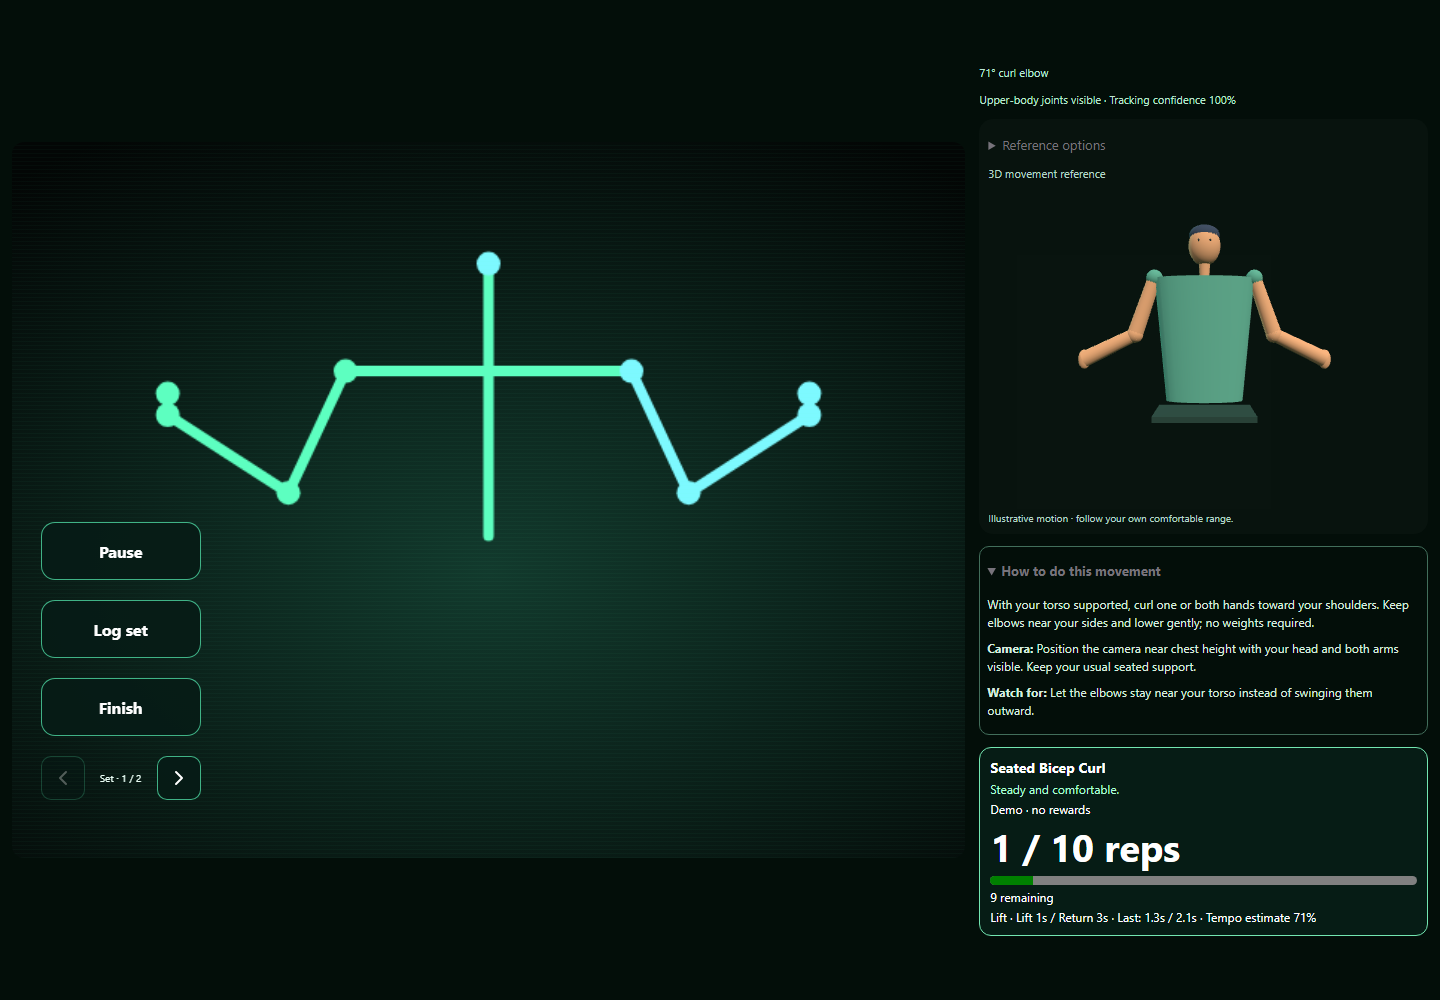
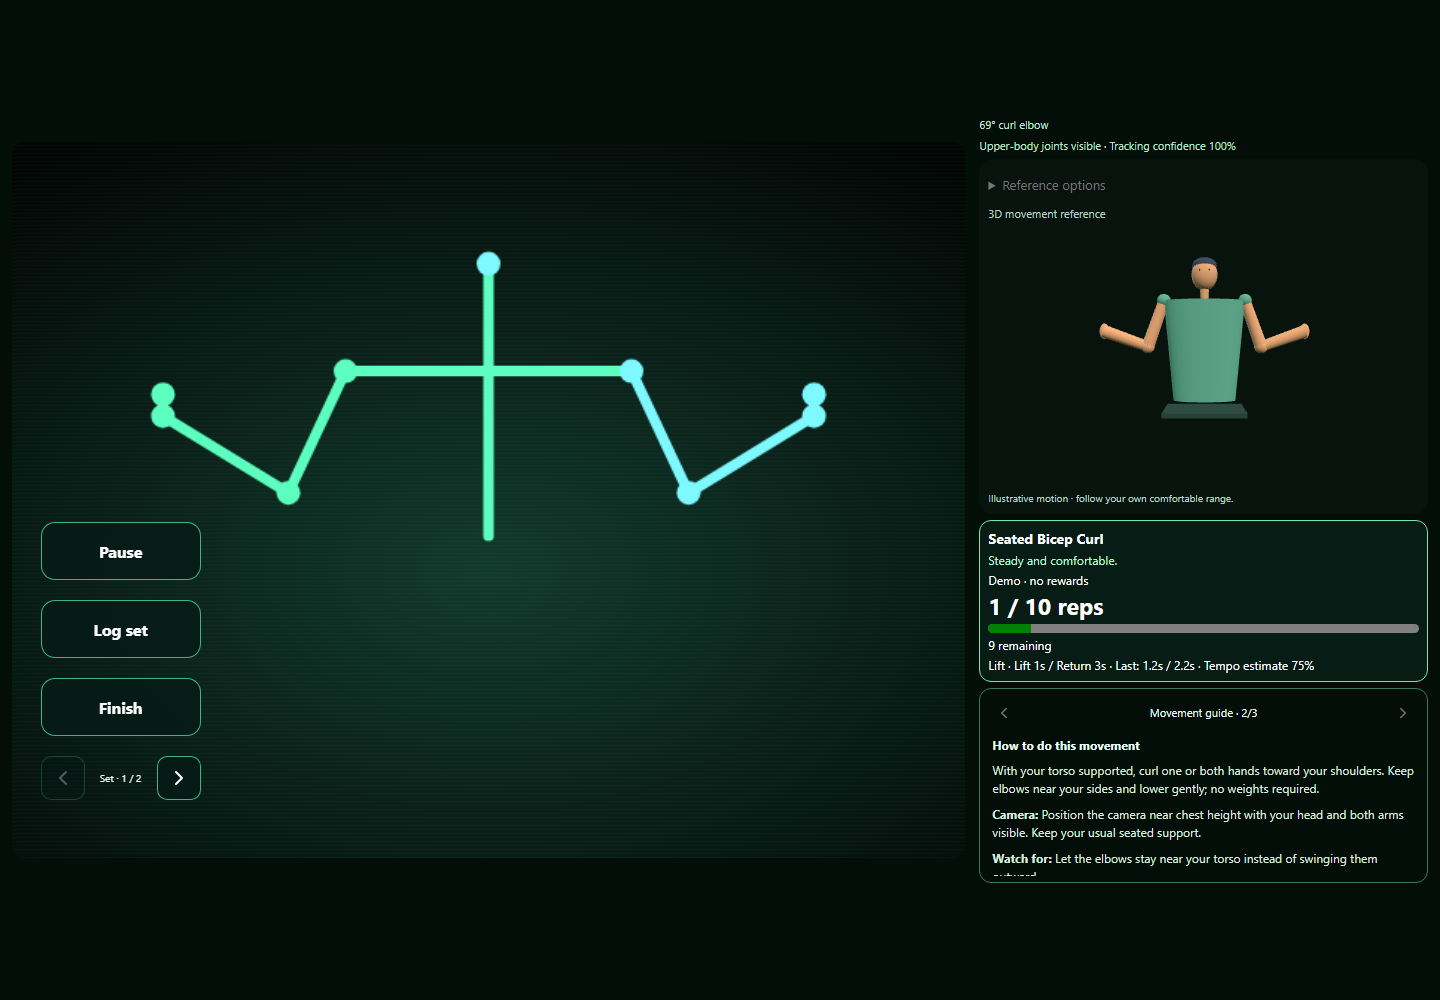
test(coach): verify compact details and Auto selection

diff --git a/e2e/form-coach.spec.ts b/e2e/form-coach.spec.ts
@@ -351,7 +351,7 @@ test('Auto is selectable and never identifies the prerecorded demo as a real wor
   await page.goto('/#workouts/coach')
   await page.getByLabel('Selected workout').selectOption('auto')
   await expect(page.locator('.fc-auto-help')).toContainText('first movement is not counted')
-  await page.getByRole('button', { name: 'Demo', exact: true }).click()
+  await page.getByRole('button', { name: 'Watch the demo athlete', exact: true }).click()
   await expect(page.locator('.fc-side-status')).toContainText('Auto needs a live camera', { timeout: 20000 })
   await expect(page.locator('.fc-workout-hud')).toContainText('Auto · identifying movement')
   await expect(page.locator('.fc-workout-hud b')).toContainText('0 /')
@@ -361,3 +361,23 @@ test('Auto is selectable and never identifies the prerecorded demo as a real wor
   await page.getByRole('button', { name: 'Previous workout detail', exact: true }).click()
   await expect(page.locator('.fc-movement-guide')).toHaveCount(0)
 })
+
+
+for (const viewport of [{width:1440,height:900},{width:390,height:844}]) {
+  test(`fullscreen keeps the reference and smaller counter visible at ${viewport.width}px`, async ({ page }) => {
+    await page.setViewportSize(viewport)
+    await page.goto('/#workouts/coach')
+    await page.getByRole('button', { name: 'Basic', exact: true }).click()
+    await page.getByRole('button', { name: 'Watch the demo athlete', exact: true }).click()
+    await page.getByRole('button', { name: 'Fullscreen workout', exact: true }).click()
+    for (let i=0;i<3;i++) {
+      for (const selector of ['.fc-reference canvas','.fc-workout-hud','.fc-info-slider']) {
+        const box=await page.locator(selector).boundingBox()
+        expect(box).not.toBeNull()
+        expect(box!.y).toBeGreaterThanOrEqual(0)
+        expect(box!.y+box!.height).toBeLessThanOrEqual(viewport.height)
+      }
+      await page.getByRole('button', { name: 'Next workout detail', exact: true }).click()
+    }
+  })
+}

diff --git a/docs/FORM_COACH_COMPACT_DETAILS.md b/docs/FORM_COACH_COMPACT_DETAILS.md
@@ -5,3 +5,5 @@
 - Auto is a local, conservative pose heuristic for seated bicep curls, lateral raises and overhead presses. It requires visible arms and a complete excursion/return after calibration; the identification movement is not counted.
 - The identified exercise stays locked until Auto is selected again. Other movements require manual selection. Demo does not auto-identify; camera images remain on device.
 - Synthetic tests cover all three movements, stillness/ambiguity, visibility loss and locking. Recognition accuracy still depends on camera placement and individual movement; this is not a trained universal exercise classifier.
+
+Validation: production build and TypeScript pass; 61 unit tests pass. All 15 browser scenarios have passed, with the final fullscreen CSS checked again at desktop and 390px widths. Camera checks use simulated input; real-world Auto accuracy has not been physically validated.
